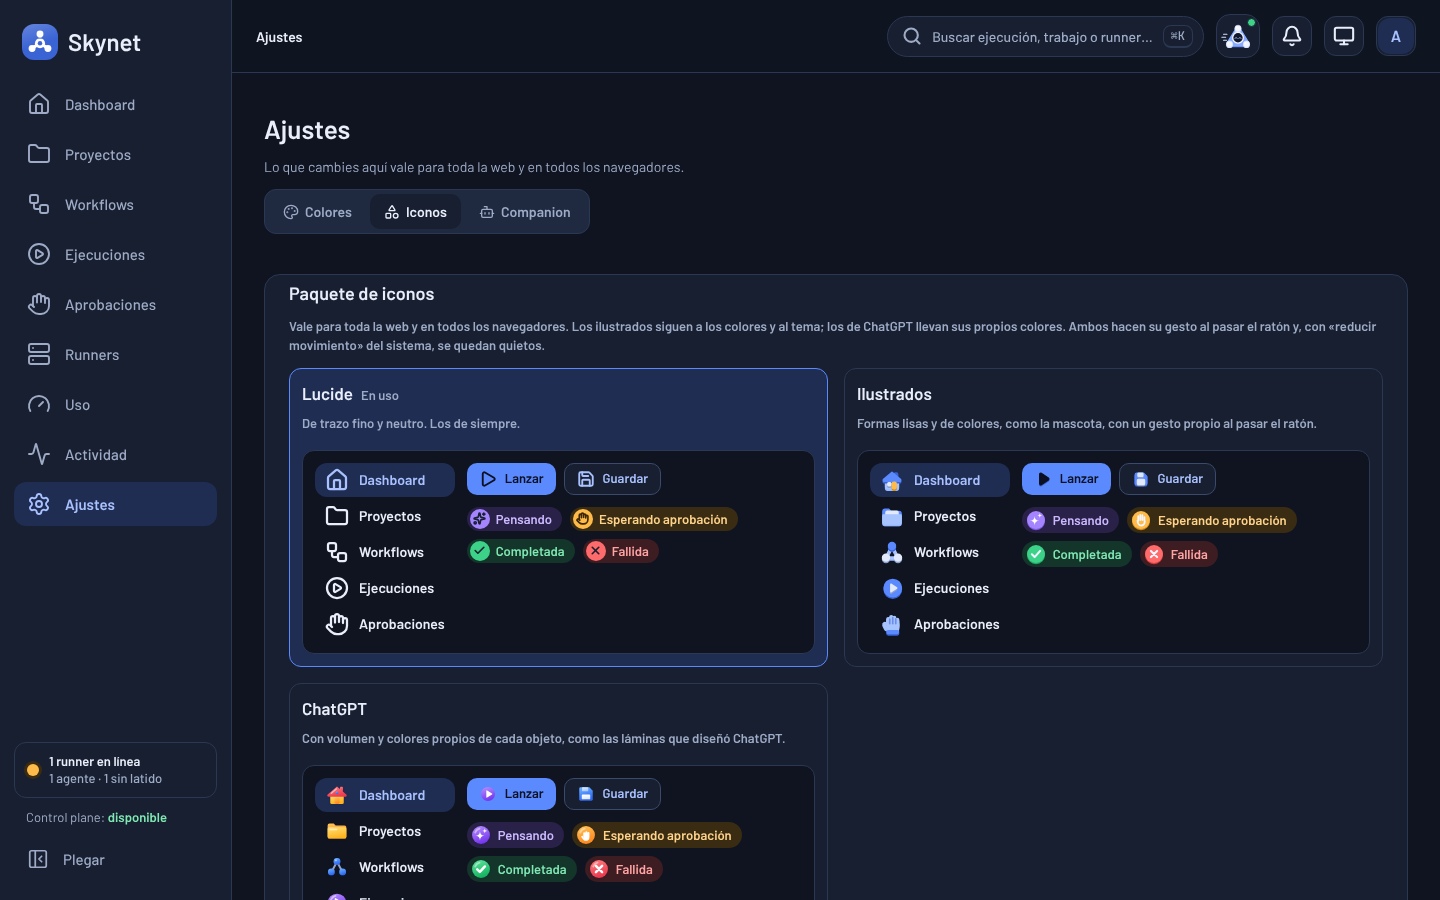
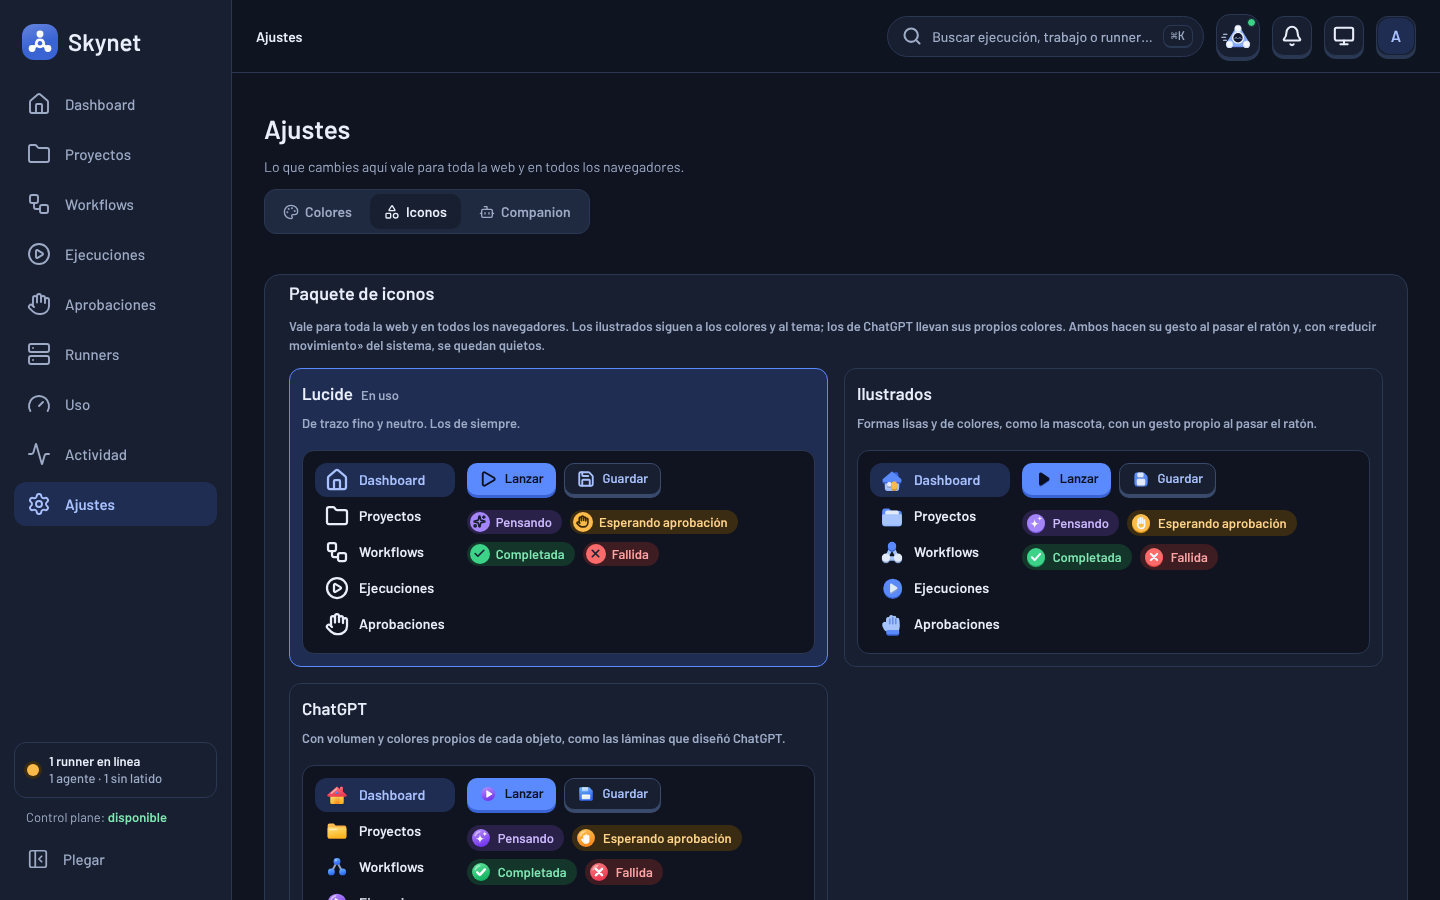
IC-A - Fondo blanco, botones con labio y el companion se llama Skyny
- El contenido va sobre blanco en el tema claro.
- Los botones (y enlaces con forma de botón) recuperan el «labio»
  inferior de Duolingo; los paneles siguen planos.
- La mascota se presenta como Skyny en el saludo del dashboard y en
  Ajustes › Companion.

Claude-Session: https://claude.ai/code/session_01WdvCwqrrdnBTAy5VicARds

Changed region(s): [[0.6875, 0.5289, 0.9062, 0.6533], [0.3125, 0.9022, 0.5, 0.9956], [0.3125, 0.5289, 0.5, 0.6533]]

diff --git a/web/src/index.css b/web/src/index.css
@@ -8,7 +8,7 @@
 
 :root {
   /* Superficies y texto (neutros con un ligero tinte azul) */
-  --bg: #f7f9fc;
+  --bg: #ffffff;
   --surface: #ffffff;
   --surface-2: #f1f4f9;
   --border: #e3e8f0;
@@ -69,8 +69,8 @@
   --r-sm: 10px;
   --r-md: 12px;
   --r-lg: 16px;
-  /* Planos: sin «labio» bajo botones y paneles. */
-  --lift: 0px;
+  /* Paneles planos; los botones conservan su «labio» inferior, como en Duolingo. */
+  --lift: 4px;
   --lift-card: 0px;
   --ease-pop: cubic-bezier(0.34, 1.56, 0.64, 1);
 
@@ -697,7 +697,7 @@
     border-radius: 12px;
     background: var(--surface);
     color: var(--fg);
-    box-shadow: none;
+    box-shadow: 0 3px 0 var(--border);
     cursor: pointer;
     transition: transform 80ms;
   }
@@ -1219,7 +1219,7 @@
     font-size: 0.875rem;
     white-space: nowrap;
     cursor: pointer;
-    box-shadow: none;
+    box-shadow: 0 var(--lift) 0 var(--c-shade);
     transition:
       transform 90ms ease,
       box-shadow 90ms ease,
@@ -1270,6 +1270,7 @@
   }
 
   .btn-sm {
+    --lift: 3px;
     min-height: 32px;
     padding: 0 12px;
     font-size: 0.8125rem;
@@ -1501,7 +1502,7 @@
   .segmented button[aria-pressed='true'] {
     background: var(--surface);
     color: var(--fg);
-    box-shadow: none;
+    box-shadow: 0 3px 0 var(--border-strong);
   }
 
   /* ---------- Ejecución ---------- */
@@ -4678,7 +4679,7 @@
     width: 34px;
     height: 34px;
     border-radius: 11px;
-    box-shadow: none;
+    box-shadow: 0 2px 0 var(--border);
   }
 
   .menu-danger {
@@ -6709,7 +6710,7 @@
     border: 1px solid var(--border);
     border-radius: 14px;
     background: var(--surface);
-    box-shadow: none;
+    box-shadow: 0 3px 0 var(--border);
     cursor: pointer;
   }
 

diff --git a/web/src/components/companion/peek.ts b/web/src/components/companion/peek.ts
@@ -30,15 +30,15 @@ export function peekText(state: CompanionState, approvals: number): string {
   }
 }
 
-/** «Hola, soy Skynet. Hay 2 ejecuciones en marcha y 1 aprobación esperándote.» */
+/** «Hola, soy Skyny. Hay 2 ejecuciones en marcha y 1 aprobación esperándote.» */
 export function helloText(runs: number, approvals: number): string {
   const parts = [
     runs > 0 && `${runs} ${runs === 1 ? 'ejecución en marcha' : 'ejecuciones en marcha'}`,
     approvals > 0 &&
       `${approvals} ${approvals === 1 ? 'aprobación esperándote' : 'aprobaciones esperándote'}`,
   ].filter(Boolean)
-  if (parts.length === 0) return 'Hola, soy Skynet. No hay nada en marcha: ¿lanzamos algo?'
-  return `Hola, soy Skynet. Hay ${parts.join(' y ')}.`
+  if (parts.length === 0) return 'Hola, soy Skyny. No hay nada en marcha: ¿lanzamos algo?'
+  return `Hola, soy Skyny. Hay ${parts.join(' y ')}.`
 }
 
 /** La cara de un grupo de ejecuciones (un proyecto): la más fuerte de las que están en marcha. */

diff --git a/web/src/components/companion/peek.test.ts b/web/src/components/companion/peek.test.ts
@@ -32,14 +32,14 @@ describe('Bocadillo de la mascota', () => {
 describe('Saludo del dashboard', () => {
   it('resume ejecuciones y aprobaciones', () => {
     expect(helloText(2, 1)).toBe(
-      'Hola, soy Skynet. Hay 2 ejecuciones en marcha y 1 aprobación esperándote.',
+      'Hola, soy Skyny. Hay 2 ejecuciones en marcha y 1 aprobación esperándote.',
     )
-    expect(helloText(1, 0)).toBe('Hola, soy Skynet. Hay 1 ejecución en marcha.')
-    expect(helloText(0, 2)).toBe('Hola, soy Skynet. Hay 2 aprobaciones esperándote.')
+    expect(helloText(1, 0)).toBe('Hola, soy Skyny. Hay 1 ejecución en marcha.')
+    expect(helloText(0, 2)).toBe('Hola, soy Skyny. Hay 2 aprobaciones esperándote.')
   })
 
   it('propone lanzar algo si no hay nada', () => {
-    expect(helloText(0, 0)).toBe('Hola, soy Skynet. No hay nada en marcha: ¿lanzamos algo?')
+    expect(helloText(0, 0)).toBe('Hola, soy Skyny. No hay nada en marcha: ¿lanzamos algo?')
   })
 })
 

diff --git a/web/src/components/companion/CompanionHello.tsx b/web/src/components/companion/CompanionHello.tsx
@@ -14,7 +14,7 @@ export function CompanionHello({ approvals }: { approvals: ApprovalSummary[] }) 
   const { activeRuns } = useCompanion()
   const latest = activeRuns[0]
   return (
-    <section className="card companion-hello" aria-label="Skynet">
+    <section className="card companion-hello" aria-label="Skyny">
       <Companion state={approvals.length > 0 ? 'waiting' : 'ready'} size={80} />
       <div className="companion-hello-text">
         <Hello text={helloText(activeRuns.length, approvals.length)} />
@@ -45,7 +45,7 @@ export function CompanionHello({ approvals }: { approvals: ApprovalSummary[] }) 
   )
 }
 
-/** El saludo («Hola, soy Skynet.») en negrita y el resto, normal. */
+/** El saludo («Hola, soy Skyny.») en negrita y el resto, normal. */
 function Hello({ text }: { text: string }) {
   const cut = text.indexOf('. ') + 1
   return (

diff --git a/web/src/components/companion/CompanionGallery.tsx b/web/src/components/companion/CompanionGallery.tsx
@@ -34,10 +34,11 @@ export function CompanionGallery() {
       className="card settings-section"
       aria-labelledby="companion-title"
     >
-      <h2 id="companion-title">Companion</h2>
+      <h2 id="companion-title">Skyny, tu companion</h2>
       <p className="hint">
-        La mascota de Skynet cuenta cómo van tus agentes. Toca una expresión para ver el cambio.
-        Sigue al color de acento y al tema; con «reducir movimiento» del sistema se queda quieta.
+        Skyny (de Skynet) es la mascota que te cuenta cómo van tus agentes. Toca una expresión para
+        ver el cambio. Sigue al color de acento y al tema; con «reducir movimiento» del sistema se
+        queda quieta.
       </p>
       <fieldset className="companion-prefs">
         <legend className="visually-hidden">Preferencias del companion en este navegador</legend>

diff --git a/web/e2e/companion.e2e.ts b/web/e2e/companion.e2e.ts
@@ -40,7 +40,7 @@ test('la mascota, la campana y los avisos siguen las ejecuciones en vivo', async
     await expectAccessible(page, 'aviso flotante')
     // CO-C: la pestaña cuenta los avisos sin leer y el Dashboard saluda.
     await expect(page).toHaveTitle(/^\(\d+\) /)
-    await expect(page.locator('.companion-hello')).toContainText('Hola, soy Skynet.')
+    await expect(page.locator('.companion-hello')).toContainText('Hola, soy Skyny.')
   })
 
   await test.step('la campana guarda el aviso y lo marca leído al cerrarla', async () => {

diff --git a/web/src/SettingsPage.test.tsx b/web/src/SettingsPage.test.tsx
@@ -163,6 +163,6 @@ describe('Ajustes > Iconos', () => {
       'aria-selected',
       'true',
     )
-    expect(screen.getByRole('heading', { name: 'Companion' })).toBeInTheDocument()
+    expect(screen.getByRole('heading', { name: 'Skyny, tu companion' })).toBeInTheDocument()
   })
 })

diff --git a/docs/ui.md b/docs/ui.md
@@ -13,7 +13,8 @@ Cómo se ve y cómo se construye la web de Skynet tras el rediseño (UI-A a UI-F
 - **Primero lo que pide atención.** El dashboard empieza por lo que falla o no responde; las listas filtran por estado; una ejecución abre en la conversación del agente que importa.
 - **Todo enlazable.** Filtros, pestañas, la vista de actividad, el agente y la herramienta elegidos viven en la URL. Copiar la dirección comparte exactamente lo que se ve.
 - **Formularios aparte.** Crear, configurar, lanzar y confirmar se hace en un panel lateral; la página de fondo no cambia hasta que se guarda.
-- **Claro y con aire.** Fondo casi blanco, paneles planos con borde de 1 px y sin sombra, esquinas redondeadas y mucho espacio entre bloques. El color lo ponen los iconos y los estados, no las cajas.
+- **Claro y con aire.** Fondo casi blanco, paneles planos con borde de 1 px y sin sombra (los botones sí conservan su «labio» inferior, como en Duolingo), esquinas redondeadas y mucho espacio entre bloques. El color lo ponen los iconos y los estados, no las cajas.
+- **Fondo blanco.** El contenido va sobre blanco (`--bg`) en el tema claro; las tarjetas se separan por su borde.
 - **Nunca negro.** Los textos son una escala de grises azulados (`--fg`, `--muted`), con pesos contenidos: títulos en 600, texto en 400 y nada en mayúsculas salvo las cabeceras de tabla.
 
 ## 2. Tokens
@@ -28,7 +29,7 @@ Todos los colores, radios y profundidades son variables CSS en `web/src/index.cs
 | Estados | `--ok`, `--warn`, `--bad`, `--live`, `--idle`, cada uno con `-shade`, `-soft` e `-ink` | Píldoras, puntos del árbol, barras de la cascada y avisos |
 | Botones de estado | `--ok-btn`, `--bad-btn` y sus `-shade` | Más oscuros que el estado, para que el texto blanco llegue a AA |
 | Formas | `--r-sm` (10), `--r-md` (12), `--r-lg` (16) | Campos y botones, bloques internos y tarjetas |
-| Profundidad | `--lift`, `--lift-card` (0 px) | Antes, la sombra firme de botones y tarjetas; desde el rediseño ligero son planos |
+| Profundidad | `--lift` (4 px; 3 px en `.btn-sm`), `--lift-card` (0 px) | El «labio» inferior de los botones, como en Duolingo; los paneles van planos |
 | Movimiento | `--ease-pop`, `--animate-pop`, `--animate-pulse-ring` | Entradas con rebote y el latido de lo vivo |
 
 Para cada estado: el color sólido (`--ok`) va en iconos y barras; `-soft` es el fondo de la píldora; `-ink` es el texto sobre ese fondo; `-shade` es la sombra o el borde.

diff --git a/docs/companion.md b/docs/companion.md
@@ -1,6 +1,6 @@
 # Companion
 
-La mascota de Skynet cuenta cómo van los agentes. Es el isotipo convertido en personaje: el nodo de arriba es la cabeza, los dos de abajo son las manos y el anillo es la cara, con un visor oscuro donde cambian los ojos. Es plana y en pastel, como el resto de la web, y no usa imágenes, solo SVG con CSS.
+La mascota de Skynet se llama **Skyny** (diminutivo de Skynet) y cuenta cómo van los agentes. Se presenta por su nombre en el saludo del Dashboard y en Ajustes › Companion. Es el isotipo convertido en personaje: el nodo de arriba es la cabeza, los dos de abajo son las manos y el anillo es la cara, con un visor oscuro donde cambian los ojos. Es plana y en pastel, como el resto de la web, y no usa imágenes, solo SVG con CSS.
 
 Plan del hito CO: `plans/estudio-companion.md` (carpeta de proyecto), aprobado el 2026-10-24. Solo web; la app de escritorio que planteaba la issue #140 queda descartada.
 
@@ -106,7 +106,7 @@ En la cabecera, a la derecha del título, asoma una mascota de 92 px (80 px en P
 - **Proyecto:** la cara más fuerte de sus ejecuciones en marcha y «2 ejecuciones en marcha» o «Nada en marcha».
 - **Uso:** En pausa y «Vamos justos de cuota» si hay alertas de cuota; si no, En espera y «Hay cuota de sobra». Solo cuando hay datos.
 
-Bajo la cabecera del Dashboard va la tarjeta de saludo (`CompanionHello`): «Hola, soy Skynet. Hay 1 ejecución en marcha y 1 aprobación esperándote.» con atajos a revisar la aprobación, lanzar un workflow y ver la última ejecución.
+Bajo la cabecera del Dashboard va la tarjeta de saludo (`CompanionHello`): «Hola, soy Skyny. Hay 1 ejecución en marcha y 1 aprobación esperándote.» con atajos a revisar la aprobación, lanzar un workflow y ver la última ejecución.
 
 ### Ejecución, tabla y grafo
 

diff --git a/docs/tests/probar-ic-a.md b/docs/tests/probar-ic-a.md
@@ -76,7 +76,7 @@ cd web && npm run lint && npm run format:check && npm run typecheck && npx vites
 
 ## 8. Rediseño ligero
 
-1. En toda la web: fondo casi blanco, paneles con borde fino y **sin sombra**, textos en gris (nunca negro), la barra lateral y los botones en minúsculas y sin negrita gruesa, y más espacio entre bloques.
+1. En toda la web: fondo **blanco**, paneles con borde fino y **sin sombra**, los botones (y enlaces con forma de botón) con su sombra inferior de Duolingo que se hunde al pulsarlos, textos en gris (nunca negro), la barra lateral y los botones en minúsculas y sin negrita gruesa, y más espacio entre bloques.
 2. **Dashboard**, de arriba abajo: saludo con la mascota y «Lanzar agente»; el aviso de Skynet con «Lanzar un workflow» como botón principal; **Resumen (últimos 7 días)** con «Ver más detalles →» y las ocho tarjetas; **Necesita tu atención**; el gráfico; **Ejecuciones recientes** (las 5 últimas, con «Ver todas →»); y los runners.
 3. Con los paquetes **Ilustrados** o **ChatGPT**, las tarjetas del Resumen llevan el icono grande y suelto, sin baldosa; con **Lucide**, el icono va sobre su baldosa de color.
 4. Cambia el periodo a **24 horas**: el título pasa a «Resumen (últimas 24 horas)» y el gráfico, a horas.
